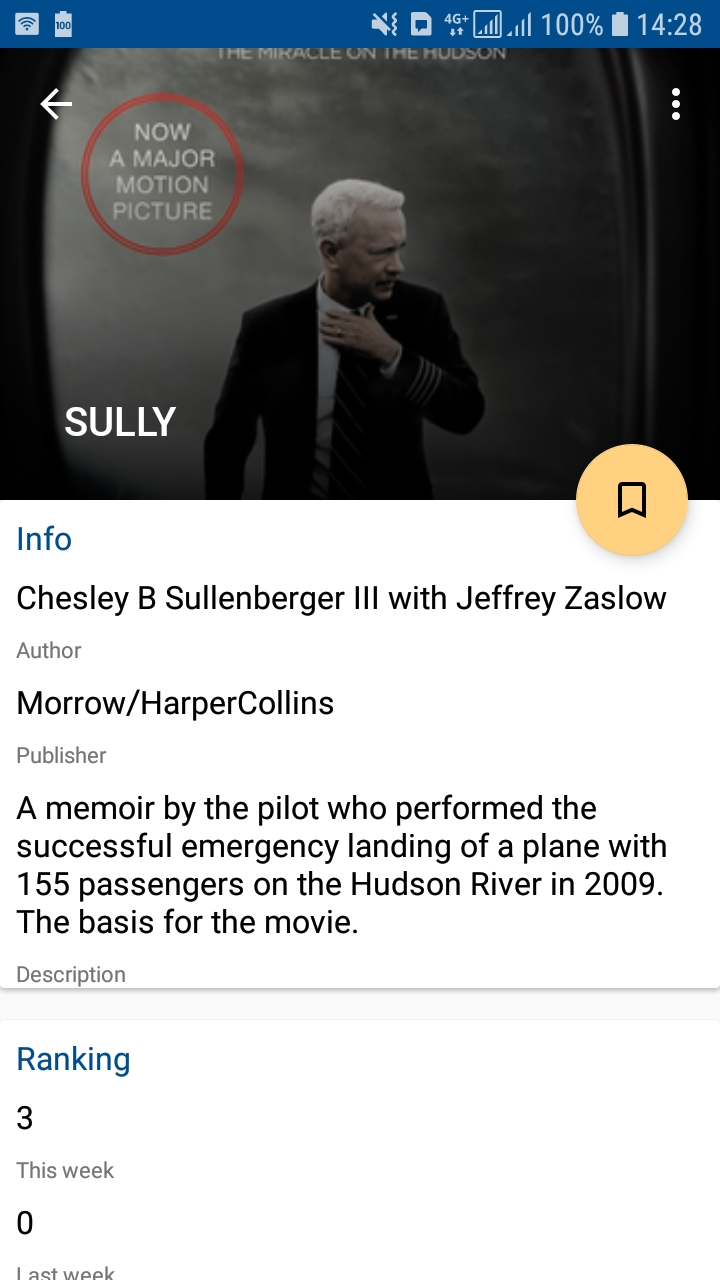
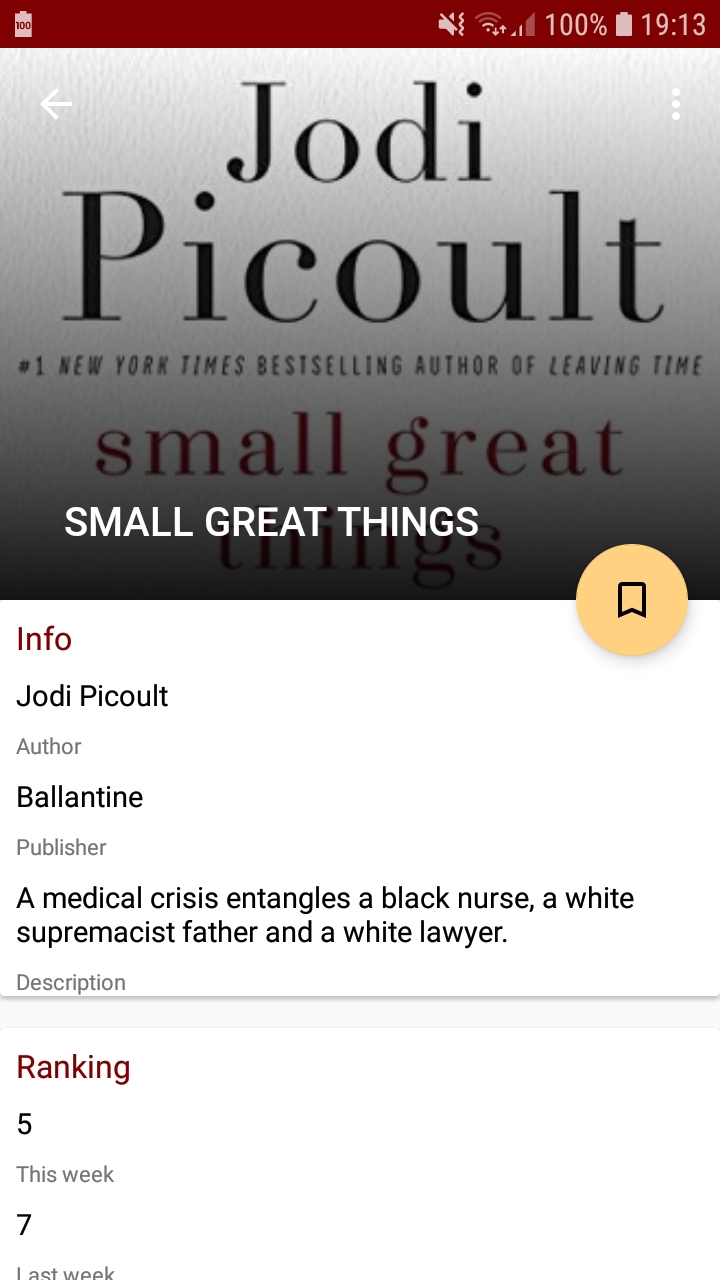
Update README with API instructions and latest app screenshoots

diff --git a/README.md b/README.md
@@ -5,7 +5,7 @@ An Android Application to show details on the best-selling books based on the Ne
 Get the latest APK release [here](https://github.com/EddyMM/bookworm/releases)
 
 
-<img src="github_assets/imgs/categories.jpg" alt="categories" width=250 height=450 /> <img src="github_assets/imgs/book_list.jpg" alt="book list" width=250 height=450 /> <img src="github_assets/imgs/book_detail.jpg" alt="book detail" width=250 height=450 /> <img src="github_assets/imgs/bookmarks.jpg" alt="bookmarks" width=250 height=450 /> <img src="github_assets/imgs/widget.jpg" alt="bookmarks" width=250 height=450 />
+<img src="github_assets/imgs/intro.jpg" alt="intro" width=250 height=450 /> <img src="github_assets/imgs/categories.jpg" alt="categories" width=250 height=450 /> <img src="github_assets/imgs/book_list.jpg" alt="book list" width=250 height=450 /> <img src="github_assets/imgs/book_detail.jpg" alt="book detail" width=250 height=450 />
 
 
 ## Getting Started
@@ -15,7 +15,21 @@ To run this project, do the following:
 1. Clone the project
 2. Open the project from `Android Studio`
 3. Get an API KEY for books api from [here](https://developer.nytimes.com/docs/books-product/1/overview)
-4. Add it to your ~/.gradle/gradle.properties as NewYorkTimesApiKey=<API_KEY>
+4. Ensure you have installed NDK, CMake and LLDB as shown in the [developer page](https://developer.android.com/studio/projects/add-native-code)
+5. Add a folder named 'native' in the `data/src/main`
+6. Create a C++ file named `native-lib.cpp` inside the `native` folder
+7. Add the following C++ code to it. Replace the `<API_KEY>` with a base64 encoded version of the API key you obtained
+```
+#include <jni.h>
+
+extern "C" {
+
+    JNIEXPORT jstring JNICALL
+    Java_com_eddy_data_rest_BooksApi_getAPIKey(JNIEnv *env, jclass type) {
+        return env-> NewStringUTF("<API_KEY>");
+    }
+}
+```
 
 
 ### Prerequisites
